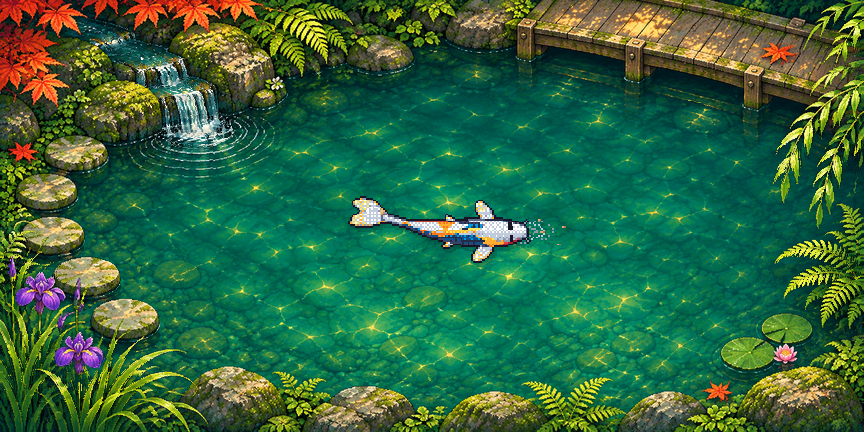
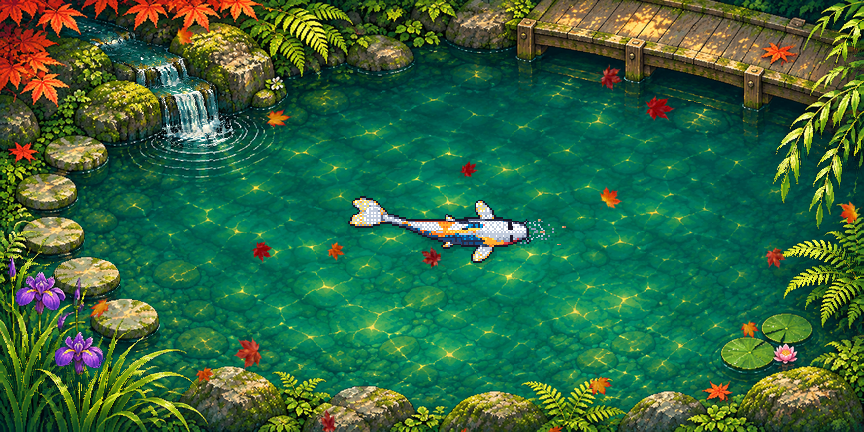
Add a foreground maple breeze to the activity koi cove

diff --git a/render_cove.py b/render_cove.py
@@ -4,12 +4,13 @@ Run from the repository root after git-koi generates koi/koi.gif.
 The activity sprite and its frame timing are preserved. Water, waterfall,
 caustics, plants and ripples are animated separately underneath it.
 """
-from math import pi, sin, tau
+from math import ceil, pi, sin, tau
 from pathlib import Path
 import shutil
 
 import numpy as np
 from PIL import Image, ImageChops, ImageDraw, ImageFilter, ImageSequence
+from scripts import render_maple as maple
 
 ROOT = Path(__file__).resolve().parent
 SIZE = (864, 432)
@@ -50,6 +51,16 @@ class Cove:
         luma = (self.pixels[:,:,0]*.2126 + self.pixels[:,:,1]*.7152
                 + self.pixels[:,:,2]*.0722)
         self.caustics = self.water*np.clip((luma-100)/75, 0, 1)
+        # Share the top banner's textured maple sprites and wind/tumble motion.
+        maple.WIDTH, maple.HEIGHT, maple.SECONDS = WIDTH, HEIGHT, 1.0
+        self.maple_sprites = maple.load_sprites()
+        self.maple_leaves = maple.make_leaves(26, HEIGHT)
+        for leaf in self.maple_leaves:
+            leaf['size'] *= .83
+
+    def foreground(self, scene, t):
+        return maple.render(t % 1, self.maple_leaves, self.maple_sprites,
+                            scene.convert('RGBA'), HEIGHT).convert('RGB')
 
     def render(self, t):
         t %= 1
@@ -128,12 +139,19 @@ def render_pond():
                   for frame in ImageSequence.Iterator(source)]
     if not frames:
         raise ValueError('The source koi animation is empty')
+    native_duration = sum(ms for _,ms in frames)
+    # Keep the native fish and water speed, while giving the falling leaves a
+    # slower full loop. Repeat complete koi cycles rather than stretching them.
+    frames *= max(1,ceil(10000/native_duration))
     assert not ImageChops.difference(cove.render(0).convert('RGB'),
                                     cove.render(1).convert('RGB')).getbbox(), \
         'The cove animation must close seamlessly'
     assert ImageChops.difference(cove.render(0).convert('RGB'),
                                 cove.render(.25).convert('RGB')).getbbox(), \
         'The cove background must animate independently of the koi'
+    assert not ImageChops.difference(cove.foreground(cove.base,0),
+                                    cove.foreground(cove.base,1)).getbbox(), \
+        'The foreground maple loop must close seamlessly'
 
     samples = Image.new('RGB',(512,512),'#18685b')
     for index,(frame,_) in enumerate(frames[::max(1,len(frames)//16)][:16]):
@@ -155,7 +173,8 @@ def render_pond():
     time_ms = 0
     for index,(fish,ms) in enumerate(frames):
         t = time_ms/duration
-        scene = koi_scene(cove,fish,source_size,t)
+        scene = koi_scene(cove,fish,source_size,time_ms/native_duration)
+        scene = cove.foreground(scene,t)
         frame = scene.quantize(palette=palette,dither=Image.Dither.NONE)
         frame = frame.point([*range(255),dark])
         full_frame = frame.copy()
@@ -173,7 +192,7 @@ def render_pond():
             review_frames[index] = full_frame.convert('RGB')
         time_ms += ms
 
-    output = ROOT/'koi/private-pond.gif'
+    output = ROOT/'koi/private-pond-maple.gif'
     output.parent.mkdir(exist_ok=True)
     temporary = output.with_suffix('.tmp.gif')
     encoded[0].save(temporary,save_all=True,append_images=encoded[1:],
@@ -195,6 +214,7 @@ def render_pond():
     temporary.replace(output)
     # Keep existing consumers of the original pond URL up to date as well.
     shutil.copyfile(output,ROOT/'koi/pond.gif')
+    shutil.copyfile(output,ROOT/'koi/private-pond.gif')
     review[0].save(ROOT/'koi/private-pond-still.png')
     contact = Image.new('RGB',(WIDTH,HEIGHT*len(review)))
     for n,scene in enumerate(review):

diff --git a/pond-cove-art-direction.md b/pond-cove-art-direction.md
@@ -16,9 +16,17 @@ resident's appearance, movement, and frame timing.
 
 Run `python render_cove.py` after installing `requirements-pond.txt` and
 generating the activity koi. The daily Koi workflow runs these same steps.
-The README displays `koi/private-pond.gif`; `koi/pond.gif` is an identical
-compatibility copy for existing references. A still is supplied for reduced
+The README displays `koi/private-pond-maple.gif`; `koi/private-pond.gif` and
+`koi/pond.gif` are identical compatibility copies for existing references. A still is supplied for reduced
 motion. Local `koi/private-pond-review.jpg` is a visual QA contact sheet.
 
 The renderer verifies the environment's seamless loop, independent background
 motion, GIF frame count and timing, and decoded GIF frames without trails.
+
+## Foreground maple breeze
+
+The cove shares the top banner’s six textured maple sprites and wind-driven
+tumbling renderer from `scripts/render_maple.py`. Leaves are composited above
+the koi and scenery. Complete native koi cycles repeat under a slower leaf
+loop, preserving the fish and water speed. The current source produces a
+12-second, 180-frame loop. The daily workflow regenerates the effect too.

diff --git a/README.md b/README.md
@@ -13,7 +13,7 @@
   <a href="https://github.com/bangahee/bangahee/actions/workflows/koi.yml">
     <picture>
       <source media="(prefers-reduced-motion: reduce)" srcset="koi/private-pond-still.png" />
-      <img src="koi/private-pond.gif" width="100%" alt="My activity-driven koi in its own sheltered iris cove, with a flowing stream inlet, shimmering water, a wooden footbridge, and gently swaying plants" />
+      <img src="koi/private-pond-maple.gif" width="100%" alt="My activity-driven koi in its own sheltered iris cove, with a flowing stream inlet, shimmering water, a wooden footbridge, gently swaying plants, and textured maple leaves drifting and tumbling in the foreground" />
     </picture>
   </a>
   <br />
